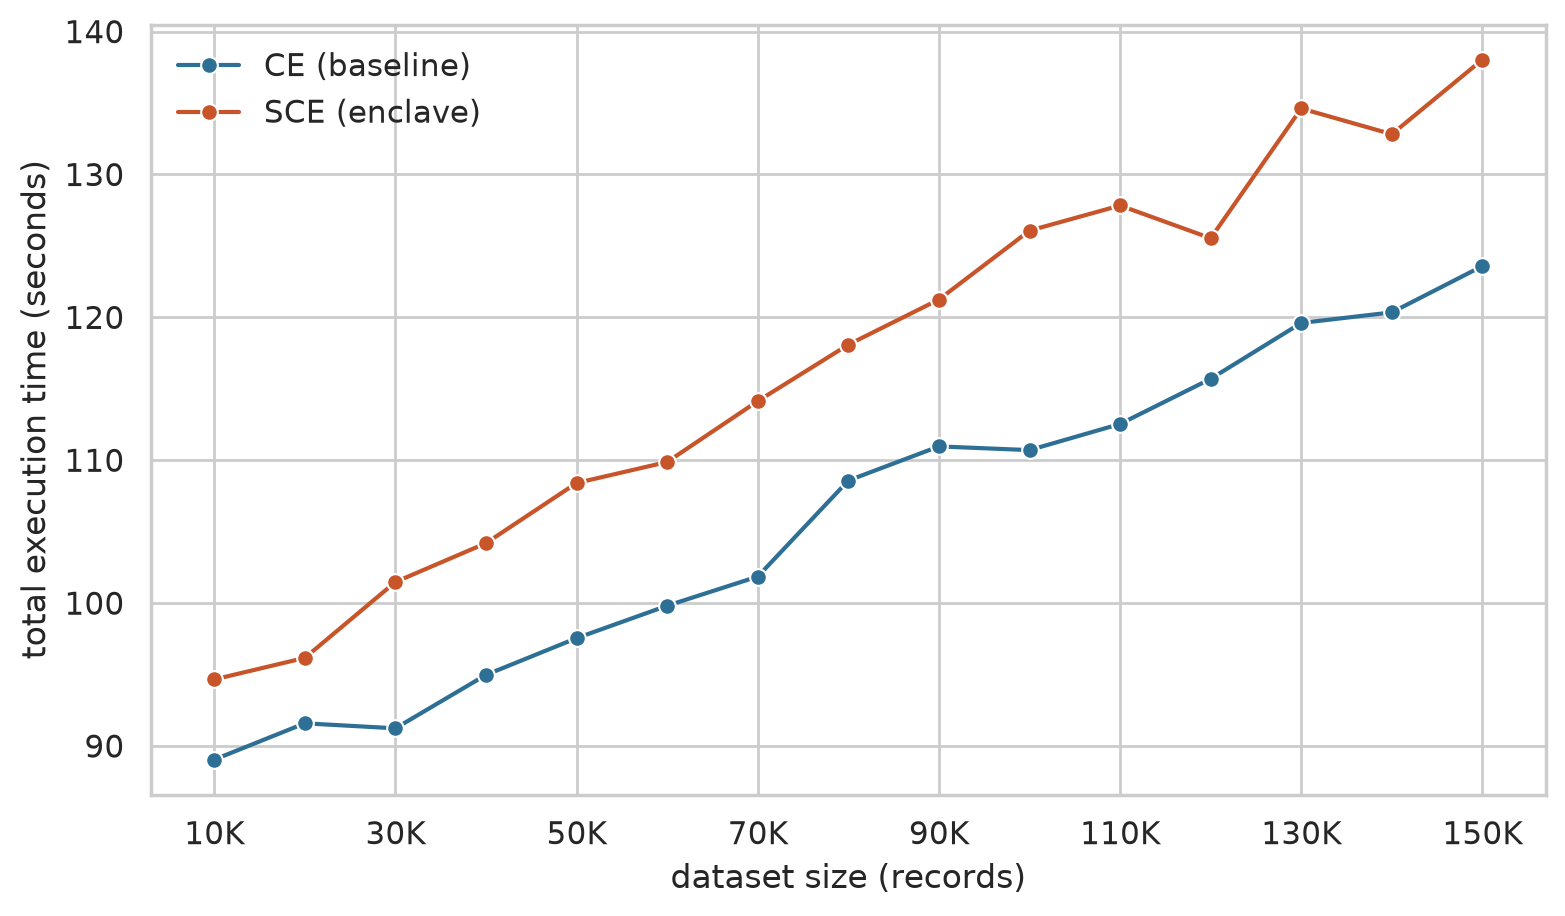
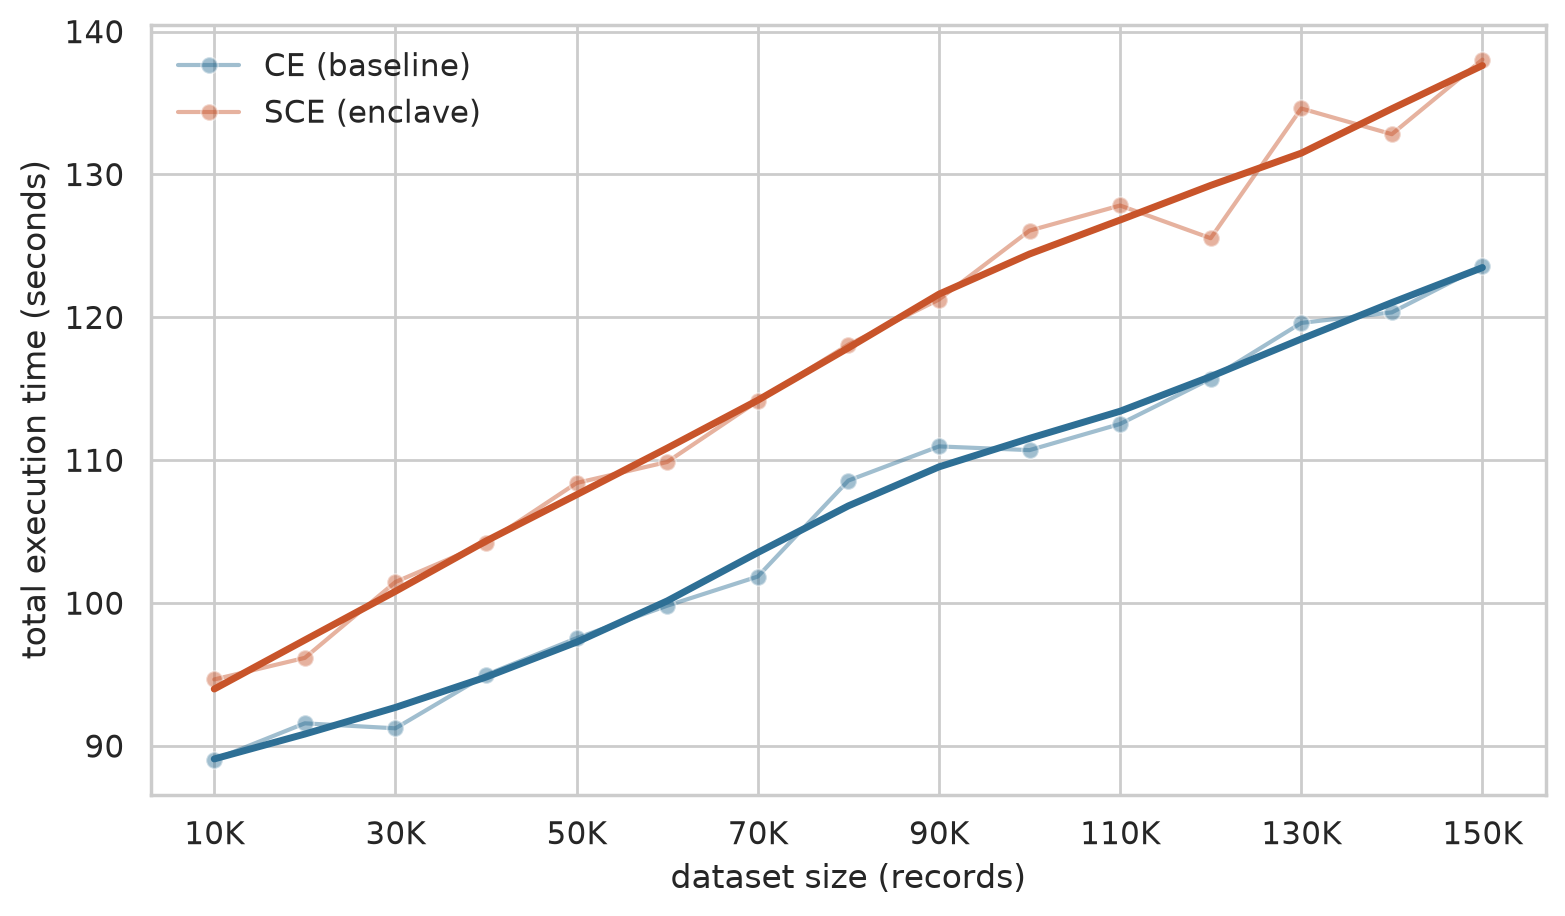
feat(benchmark): add LOWESS smoothing to the scaling figure

diff --git a/benchmark/src/plot.py b/benchmark/src/plot.py
@@ -2,11 +2,14 @@
 
 from __future__ import annotations
 
+import math
+
 import matplotlib as mpl
 
 mpl.use("Agg")
 
 import matplotlib.pyplot as plt
+import numpy as np
 import pandas as pd
 import seaborn as sns
 
@@ -128,6 +131,22 @@ def phases_figure_selected(df: pd.DataFrame) -> None:
     _save(fig, "sweep-selected-phases.png", tight=False)
 
 
+def lowess(x: np.ndarray, y: np.ndarray, frac: float = 0.35) -> np.ndarray:
+    """Tricube-weighted local linear fit, evaluated at each x (Cleveland LOWESS)."""
+    k = max(3, math.ceil(frac * len(x)))
+    out = np.empty_like(y, dtype=float)
+    for i, x0 in enumerate(x):
+        dist = np.abs(x - x0)
+        idx = np.argsort(dist)[:k]
+        h = dist[idx].max() or 1.0
+        weights = (1 - np.clip(dist[idx] / h, 0, 1) ** 3) ** 3
+        design = np.column_stack([np.ones(k), x[idx] - x0])
+        root_w = np.sqrt(weights)
+        beta, *_ = np.linalg.lstsq(design * root_w[:, None], y[idx] * root_w, rcond=None)
+        out[i] = beta[0]
+    return out
+
+
 def scaling_figure(df: pd.DataFrame) -> None:
     fig, ax = plt.subplots(figsize=(9, 5))
     sns.lineplot(
@@ -138,9 +157,16 @@ def scaling_figure(df: pd.DataFrame) -> None:
         hue_order=[LABELS[t] for t in Tree],
         palette={LABELS[t]: c for t, c in PALETTE.items()},
         marker="o",
+        alpha=0.45,
         errorbar=("ci", 95),
         ax=ax,
     )
+    means = df.groupby(["dataset_size", "tree"], as_index=False)["total_s"].mean()
+    for tree in Tree:
+        points = means[means["tree"] == tree].sort_values("dataset_size")
+        x = points["dataset_size"].to_numpy(dtype=float)
+        y = points["total_s"].to_numpy(dtype=float)
+        ax.plot(x, lowess(x, y), color=PALETTE[tree], linewidth=2.5, label="_smooth")
     ax.set_xlabel("dataset size (records)")
     ax.set_ylabel("total execution time (seconds)")
     ax.legend(title=None, frameon=False)
